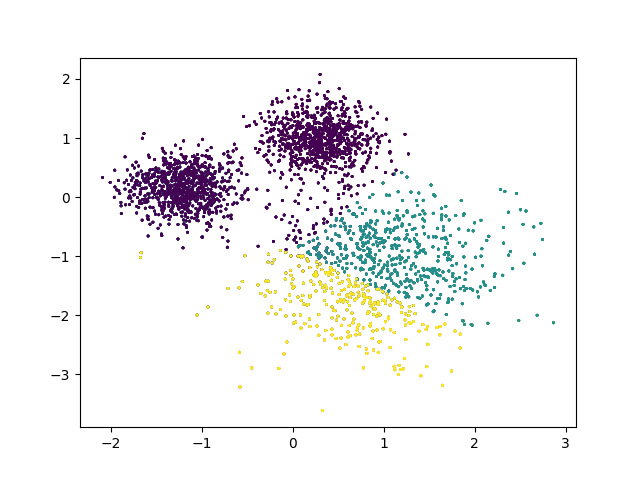
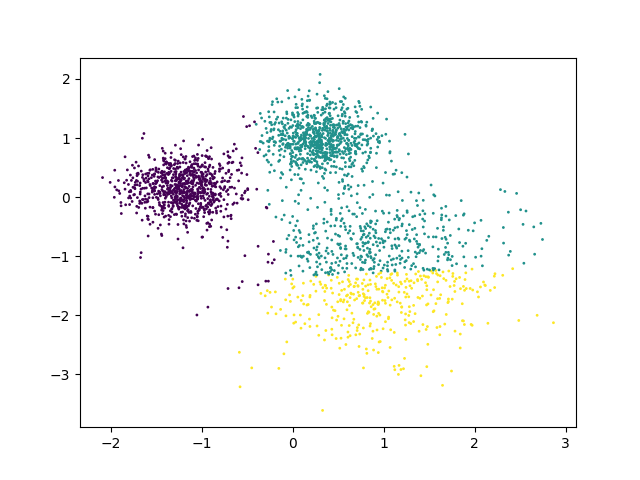
try vis

diff --git a/Algorithms/k_means.py b/Algorithms/k_means.py
@@ -1,6 +1,7 @@
 import numpy as np
 from sklearn.metrics import pairwise_distances, pairwise_distances_argmin, pairwise_distances_argmin_min
 from pyclustering.cluster.cure import cure
+from pyclustering.cluster import cluster_visualizer
 
 
 params = {"N_CLUSTERS": 10,
@@ -159,6 +160,10 @@ class CURE_Server:
         representors = cure_instance.get_representors()
         self.representors = representors
         self.server_clusters = np.vstack(representors)
+        clusters = cure_instance.get_clusters()
+        visualizer = cluster_visualizer()
+        visualizer.append_clusters(clusters, clusters_from_devices)
+        visualizer.show()
 
     def get_reports_for_devices(self):
         return self.server_clusters
